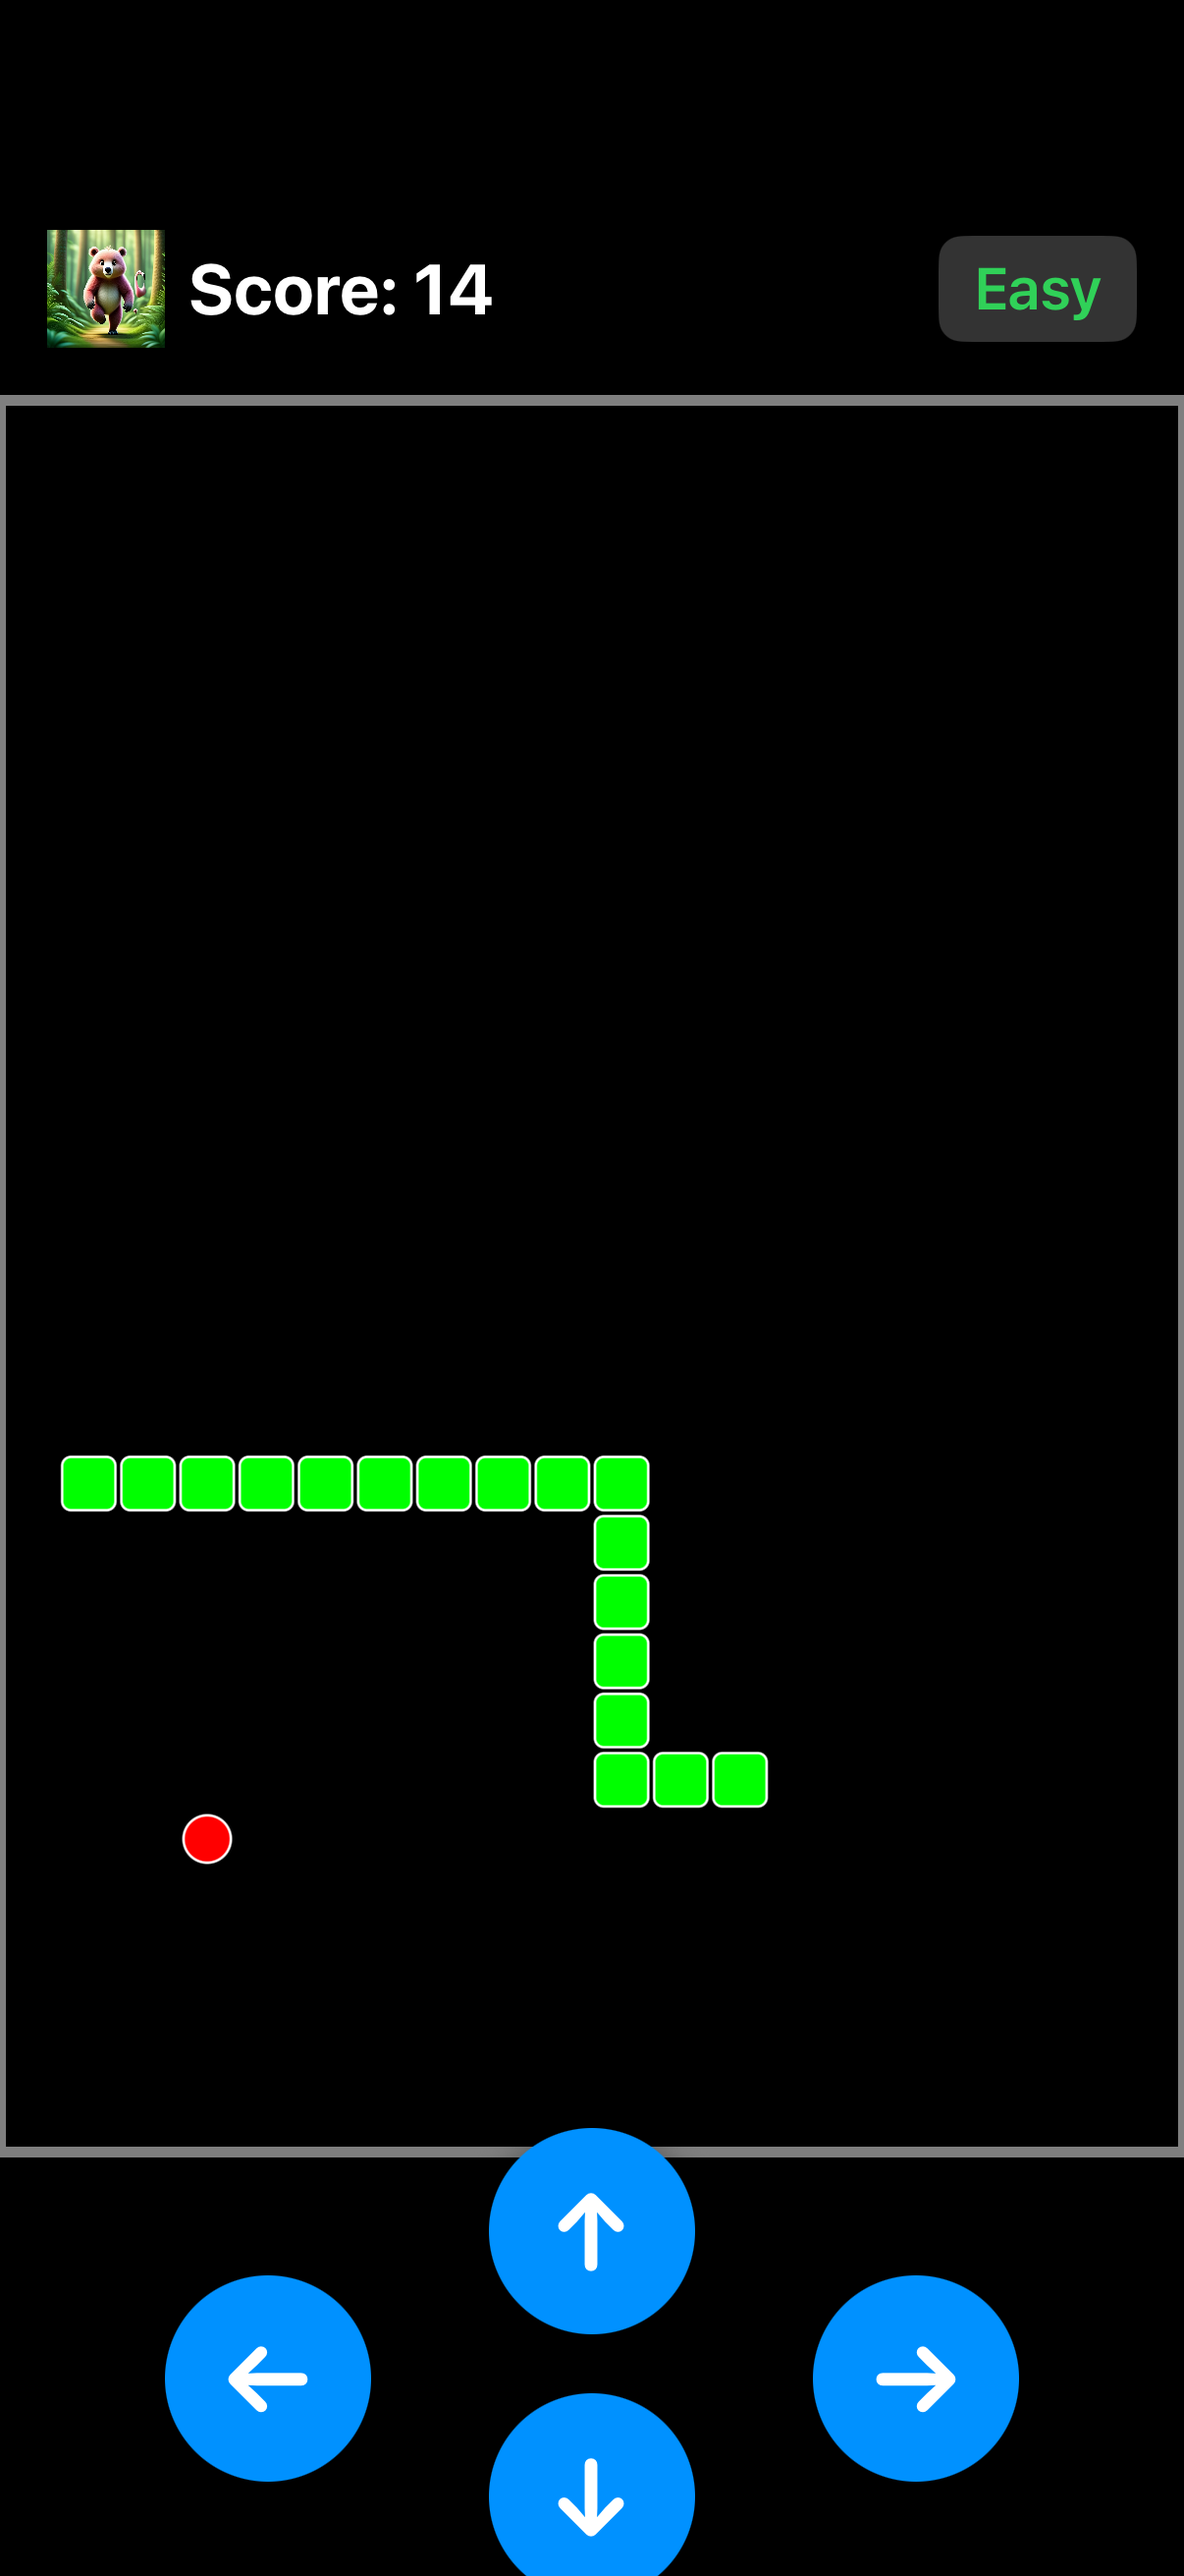
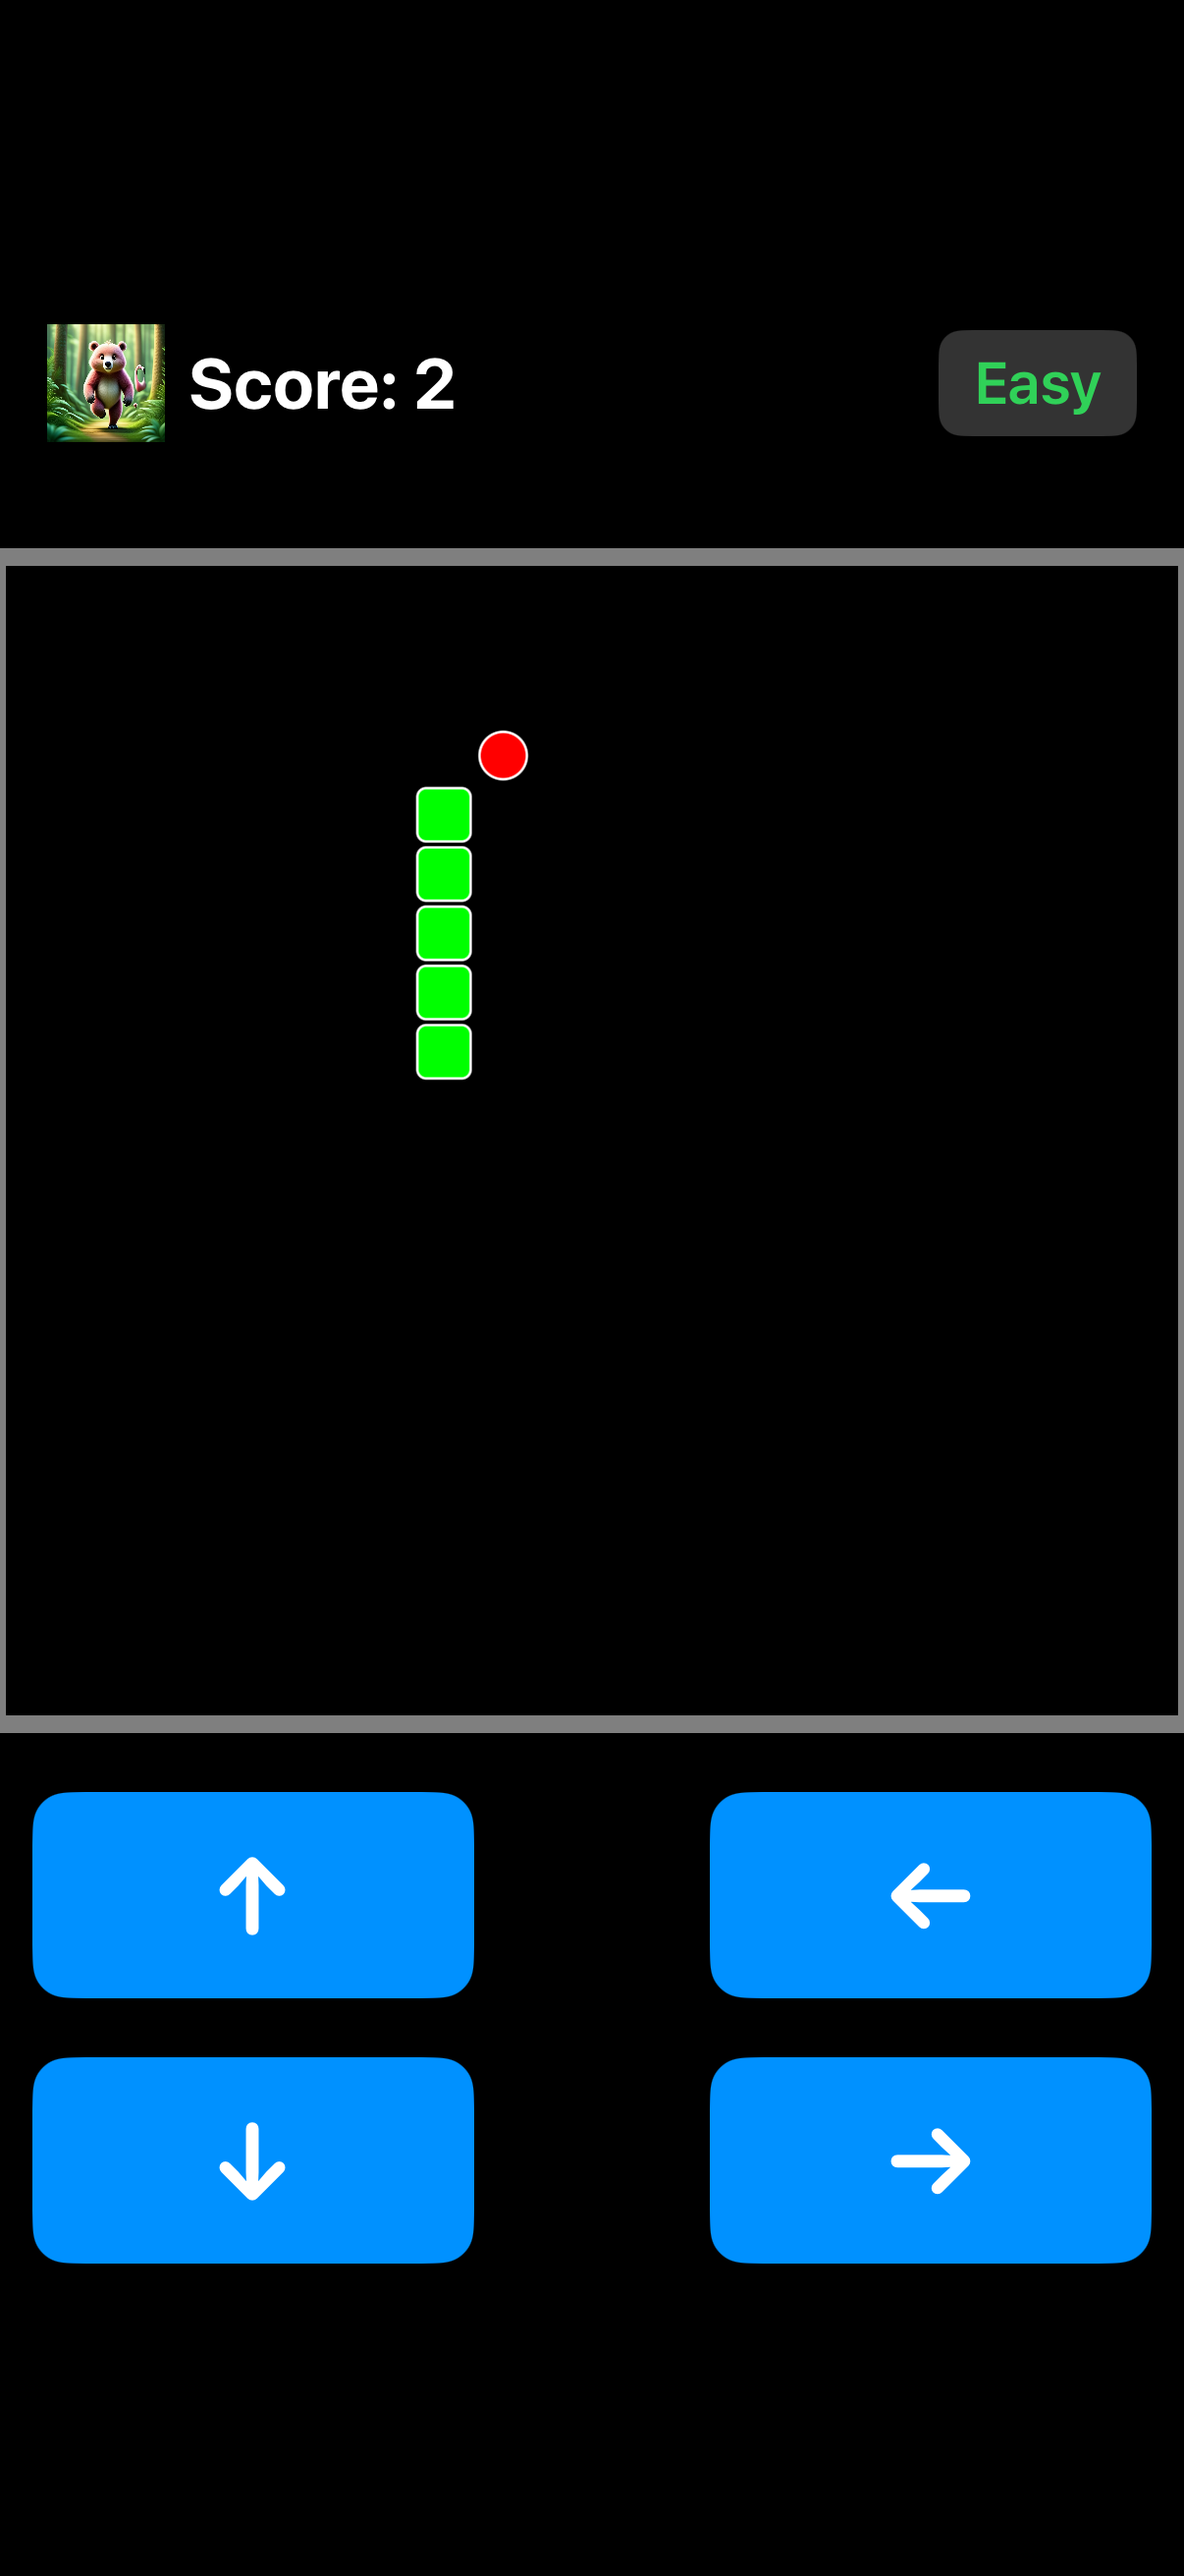
rearraged controls for 2 thumbs for the littles

Changed region(s): [[0.0, 0.5561, 1.0, 1.0], [0.0, 0.0618, 1.0, 0.2471], [0.3375, 0.278, 0.4602, 0.4325]]

diff --git a/snake4nh/GameView.swift b/snake4nh/GameView.swift
@@ -22,15 +22,19 @@ struct GameView: View {
         self._currentView = currentView
         self.difficulty = difficulty
         
-        // Initialize the game scene
-        let scene = GameScene(size: CGSize(width: 400, height: 600))
-        scene.scaleMode = .aspectFill
+        // Initialize the game scene with square dimensions
+        let scene = GameScene(size: CGSize(width: 400, height: 400))
+        scene.scaleMode = .aspectFit
         scene.setSpeed(difficulty.speed)
         self.gameScene = scene
     }
     
     var body: some View {
         GeometryReader { geometry in
+            let availableHeight = geometry.size.height - 60 - 140 // Subtract header and controls
+            let availableWidth = geometry.size.width - 20 // Account for any padding/margins
+            let sceneSize = min(availableWidth, availableHeight)
+            
             ZStack {
                 Color.black.ignoresSafeArea()
                 
@@ -61,12 +65,17 @@ struct GameView: View {
                     .padding()
                     //.background(Color.gray.opacity(0.3))
                     
+                    Spacer()
+                    
                     // Game scene
                     SpriteView(scene: gameScene)
-                        .frame(height: geometry.size.height - 180)
+                        .frame(width: sceneSize, height: sceneSize)
+                        .clipped()
                         .onAppear {
                             setupSceneCallbacks()
                         }
+                    
+                    Spacer()
                     
                     // Control buttons or Game Over buttons
                     VStack(spacing: 20) {
@@ -89,24 +98,26 @@ struct GameView: View {
                             .padding(.top, 40)
                         } else {
                             // Direction buttons
-                            DirectionButton(direction: "↑", color: .blue) {
-                                gameScene.changeDirection(to: .up)
-                            }
-                            
-                            HStack(spacing: 40) {
-                                DirectionButton(direction: "←", color: .blue) {
-                                    gameScene.changeDirection(to: .left)
-                                }
-                                .offset(y: -40)
-                                
-                                DirectionButton(direction: "↓", color: .blue) {
-                                    gameScene.changeDirection(to: .down)
+                            HStack(spacing: 80) {
+                                VStack(spacing: 20) {
+                                    DirectionButton(direction: "↑", color: .blue) {
+                                        gameScene.changeDirection(to: .up)
+                                    }
+                                    
+                                    DirectionButton(direction: "↓", color: .blue) {
+                                        gameScene.changeDirection(to: .down)
+                                    }
                                 }
                                 
-                                DirectionButton(direction: "→", color: .blue) {
-                                    gameScene.changeDirection(to: .right)
+                                VStack(spacing: 20) {
+                                    DirectionButton(direction: "←", color: .blue) {
+                                        gameScene.changeDirection(to: .left)
+                                    }
+                                    
+                                    DirectionButton(direction: "→", color: .blue) {
+                                        gameScene.changeDirection(to: .right)
+                                    }
                                 }
-                                .offset(y: -40)
                             }
                         }
                     }
@@ -161,9 +172,9 @@ struct DirectionButton: View {
             Text(direction)
                 .font(.system(size: 36, weight: .bold))
                 .foregroundColor(.white)
-                .frame(width: 70, height: 70)
+                .frame(width: 150, height: 70)
                 .background(
-                    Circle()
+                    RoundedRectangle(cornerRadius: 12)
                         .fill(color)
                         .shadow(radius: 5)
                 )

diff --git a/snake4nh/GameScene.swift b/snake4nh/GameScene.swift
@@ -17,7 +17,7 @@ class GameScene: SKScene {
     var food: SKShapeNode?
     var direction: Direction = .right
     var nextDirection: Direction = .right
-    var gameSpeed: TimeInterval = 0.15
+    var gameSpeed: TimeInterval = 0.2
     var lastUpdateTime: TimeInterval = 0
     var score: Int = 0
     var isGameOver: Bool = false
@@ -28,32 +28,37 @@ class GameScene: SKScene {
     let cellSize: CGFloat = 20
     var gridWidth: Int = 0
     var gridHeight: Int = 0
+    var offsetX: CGFloat = 0
+    var offsetY: CGFloat = 0
     
     func drawWalls() {
-        let wallThickness: CGFloat = 6
-        let sideThickness: CGFloat = 2
+        let wallThickness: CGFloat = 3
+        let sideThickness: CGFloat = 1
+        
+        let playAreaWidth = CGFloat(gridWidth) * cellSize
+        let playAreaHeight = CGFloat(gridHeight) * cellSize
         
         // Top wall
-        let topWall = SKSpriteNode(color: .gray, size: CGSize(width: size.width, height: wallThickness))
-        topWall.position = CGPoint(x: size.width / 2, y: size.height - wallThickness / 2)
+        let topWall = SKSpriteNode(color: .gray, size: CGSize(width: playAreaWidth, height: wallThickness))
+        topWall.position = CGPoint(x: offsetX + playAreaWidth / 2, y: offsetY + playAreaHeight - wallThickness / 2)
         topWall.zPosition = 10
         addChild(topWall)
         
         // Bottom wall
-        let bottomWall = SKSpriteNode(color: .gray, size: CGSize(width: size.width, height: wallThickness))
-        bottomWall.position = CGPoint(x: size.width / 2, y: wallThickness / 2)
+        let bottomWall = SKSpriteNode(color: .gray, size: CGSize(width: playAreaWidth, height: wallThickness))
+        bottomWall.position = CGPoint(x: offsetX + playAreaWidth / 2, y: offsetY + wallThickness / 2)
         bottomWall.zPosition = 10
         addChild(bottomWall)
         
         // Left wall
-        let leftWall = SKSpriteNode(color: .gray, size: CGSize(width: sideThickness, height: size.height))
-        leftWall.position = CGPoint(x: sideThickness / 2, y: size.height / 2)
+        let leftWall = SKSpriteNode(color: .gray, size: CGSize(width: sideThickness, height: playAreaHeight))
+        leftWall.position = CGPoint(x: offsetX + sideThickness / 2, y: offsetY + playAreaHeight / 2)
         leftWall.zPosition = 10
         addChild(leftWall)
         
         // Right wall
-        let rightWall = SKSpriteNode(color: .gray, size: CGSize(width: sideThickness, height: size.height))
-        rightWall.position = CGPoint(x: size.width - sideThickness / 2, y: size.height / 2)
+        let rightWall = SKSpriteNode(color: .gray, size: CGSize(width: sideThickness, height: playAreaHeight))
+        rightWall.position = CGPoint(x: offsetX + playAreaWidth - sideThickness / 2, y: offsetY + playAreaHeight / 2)
         rightWall.zPosition = 10
         addChild(rightWall)
     }
@@ -74,9 +79,17 @@ class GameScene: SKScene {
         view.isPaused = false
         view.preferredFramesPerSecond = 60
         
-        // Calculate grid dimensions
-        gridWidth = Int(size.width / cellSize)
-        gridHeight = Int(size.height / cellSize)
+        // Calculate square grid dimensions based on smaller dimension
+        let smallerDimension = min(size.width, size.height)
+        let gridSize = Int(smallerDimension / cellSize)
+        gridWidth = gridSize
+        gridHeight = gridSize
+        
+        // Calculate offsets to center the play area
+        let playAreaWidth = CGFloat(gridWidth) * cellSize
+        let playAreaHeight = CGFloat(gridHeight) * cellSize
+        offsetX = (size.width - playAreaWidth) / 2
+        offsetY = (size.height - playAreaHeight) / 2
         
         drawWalls()
         setupGame()
@@ -142,14 +155,14 @@ class GameScene: SKScene {
     }
     
     func gridToPoint(x: Int, y: Int) -> CGPoint {
-        let pointX = CGFloat(x) * cellSize + cellSize / 2
-        let pointY = CGFloat(y) * cellSize + cellSize / 2
+        let pointX = CGFloat(x) * cellSize + cellSize / 2 + offsetX
+        let pointY = CGFloat(y) * cellSize + cellSize / 2 + offsetY
         return CGPoint(x: pointX, y: pointY)
     }
     
     func pointToGrid(_ point: CGPoint) -> (Int, Int) {
-        let x = Int(point.x / cellSize)
-        let y = Int(point.y / cellSize)
+        let x = Int((point.x - offsetX) / cellSize)
+        let y = Int((point.y - offsetY) / cellSize)
         return (x, y)
     }
     

diff --git a/snake4nh/MenuView.swift b/snake4nh/MenuView.swift
@@ -75,7 +75,7 @@ struct MenuView: View {
                     .foregroundColor(.white.opacity(0.7))
                     .padding(.bottom, 5)
         
-                Text("mmmguitars - 01.04.2026")
+                Text("mmmguitars - 01.05.2026")
                     .font(.system(size: 12))
                     .foregroundColor(.white.opacity(0.7))
                     .padding(.bottom, 5)

diff --git a/readme.MD b/readme.MD
@@ -24,5 +24,10 @@ The core classics are included : Guide your snake around the playing field, eat 
 ![Game Over](md-03.png)
 ![Hall of Fame](md-04.png)
 
+## Versions
+
+- **01.05.2026**: kids wanted to play with two thumbs and i had to re-arrange the control buttons
+- **01.06.2026**: inital release
+
 ---
-**mmmguitars - 01.04.2026**
+**mmmguitars - 01.05.2026**
